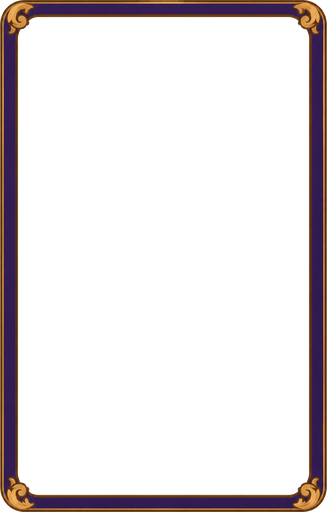
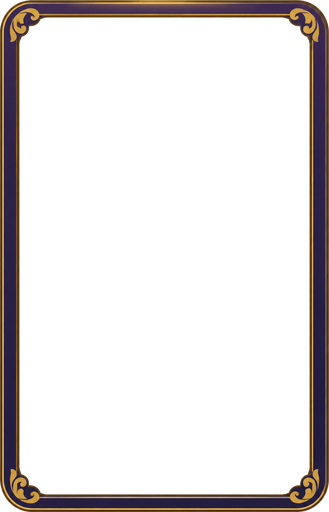
art(ui): 4 张 UI 贴图接入（卡框/面板框/主按钮/角标）+ 通量角标样式

Changed region(s): [[0.0, 0.0, 1.0, 1.0]]

diff --git a/src/style.css b/src/style.css
@@ -1,4 +1,4 @@
-/* ── 全局调色板（与 docs/GAME_DESIGN.md §8.1 保持一致）────────────
+/* ── 全局调色板（与 docs/GAME_DESIGN.md §8.1 保持一致）────────────
    深渊底色 #0B0A14 / #151226   大厅石 #2E2740 / #43395C
    熔岩     #FF6B4A / #FFB347   血色   #FF3B5C
    锅巴皮甲 #8A6A4A / #D8C8B0   钢刃   #9AA3AD                */
@@ -395,6 +395,18 @@ body {
   transition: transform 0.12s ease, border-color 0.12s ease, box-shadow 0.12s ease;
 }
 
+/* 卡框贴图：盖在最上层但不吃点击。用 ::after 而不是 border-image，
+   因为卡面里还要放立绘和角标，border-image 会把内容挤进边框内边距。
+   贴图缺失时这一层就是空的，下面的渐变底照样能看 —— 不依赖美术资源也能跑。 */
+.card::after {
+  content: '';
+  position: absolute;
+  inset: 0;
+  background: url('/art/ui/card-frame.png') center / 100% 100% no-repeat;
+  pointer-events: none;
+  z-index: 2;
+}
+
 .card.ready {
   border-color: rgba(155, 107, 255, 0.7);
   box-shadow: 0 0 0 1px rgba(155, 107, 255, 0.2), 0 6px 18px rgba(0, 0, 0, 0.5);
@@ -449,6 +461,38 @@ body {
   position: relative;
   z-index: 1;
   text-shadow: 0 1px 4px rgba(0, 0, 0, 0.9);
+}
+
+/* 通量角标：这张牌还能连放几次（3/3 → 0/3）。
+   底图用圆形角标贴图，数字本身就是它"还剩几张"的唯一读数。 */
+.card-stack {
+  position: absolute;
+  right: 4px;
+  top: 4px;
+  z-index: 3;
+  min-width: 22px;
+  height: 22px;
+  padding: 0 3px;
+  display: flex;
+  align-items: center;
+  justify-content: center;
+  border-radius: 50%;
+  background: url('/art/ui/badge-round.png') center / 100% 100% no-repeat,
+    radial-gradient(circle at 50% 30%, rgba(80, 66, 120, 0.95), rgba(18, 14, 30, 0.98));
+  font-size: 10px;
+  font-weight: 800;
+  letter-spacing: 0;
+  color: #ffe4bd;
+  text-shadow: 0 1px 3px rgba(0, 0, 0, 0.8);
+}
+
+/* 通量耗尽：整张牌压暗，明确"现在放不出来"（比只灰掉一个角标更难误判） */
+.card.spent {
+  filter: saturate(0.45) brightness(0.62);
+}
+
+.card.spent .card-stack {
+  color: #ff9a8a;
 }
 
 /* ── 提示 ───────────────────────────────────────────────── */
@@ -642,6 +686,7 @@ body {
 }
 
 .panel {
+  position: relative;
   width: min(680px, 90vw);
   padding: 30px 34px 28px;
   border-radius: 16px;
@@ -649,6 +694,22 @@ body {
   border: 1px solid rgba(255, 255, 255, 0.12);
   box-shadow: 0 30px 90px rgba(0, 0, 0, 0.75);
   text-align: center;
+}
+
+/* 面板外框贴图：四边等宽、中心镂空，所以必须铺满整个 panel 而不是九宫格拉伸 */
+.panel::after {
+  content: '';
+  position: absolute;
+  inset: -10px;
+  background: url('/art/ui/panel-frame.png') center / 100% 100% no-repeat;
+  pointer-events: none;
+  z-index: 0;
+  opacity: 0.92;
+}
+
+.panel > * {
+  position: relative;
+  z-index: 1;
 }
 
 /* 标题页立绘：没有主角的标题页会被当成"未完成的网页"（评审连着说了两次背景单调） */
@@ -763,20 +824,25 @@ body {
   appearance: none;
   border: 1px solid rgba(255, 179, 71, 0.55);
   border-radius: 999px;
-  background: linear-gradient(180deg, rgba(255, 179, 71, 0.22), rgba(255, 107, 74, 0.1));
+  /* 按钮底贴图铺满（512×172，按 100% 100% 拉伸到任意按钮尺寸）。
+     渐变底留在下面当降级：贴图没加载出来时按钮依然有颜色、能看清文字。 */
+  background:
+    url('/art/ui/button-primary.png') center / 100% 100% no-repeat,
+    linear-gradient(180deg, rgba(255, 179, 71, 0.22), rgba(255, 107, 74, 0.1));
   color: #ffe4bd;
   font-family: inherit;
   font-size: 16px;
   font-weight: 800;
   letter-spacing: 0.24em;
   padding: 13px 44px 13px 48px;
+  text-shadow: 0 2px 6px rgba(0, 0, 0, 0.6);
   cursor: pointer;
-  transition: transform 0.15s ease, box-shadow 0.15s ease, background 0.15s ease;
+  transition: transform 0.15s ease, box-shadow 0.15s ease, filter 0.15s ease;
 }
 
 .btn-primary:hover {
   transform: translateY(-2px);
-  background: linear-gradient(180deg, rgba(255, 179, 71, 0.36), rgba(255, 107, 74, 0.16));
+  filter: brightness(1.12);
   box-shadow: 0 12px 34px rgba(255, 107, 74, 0.28);
 }
 
